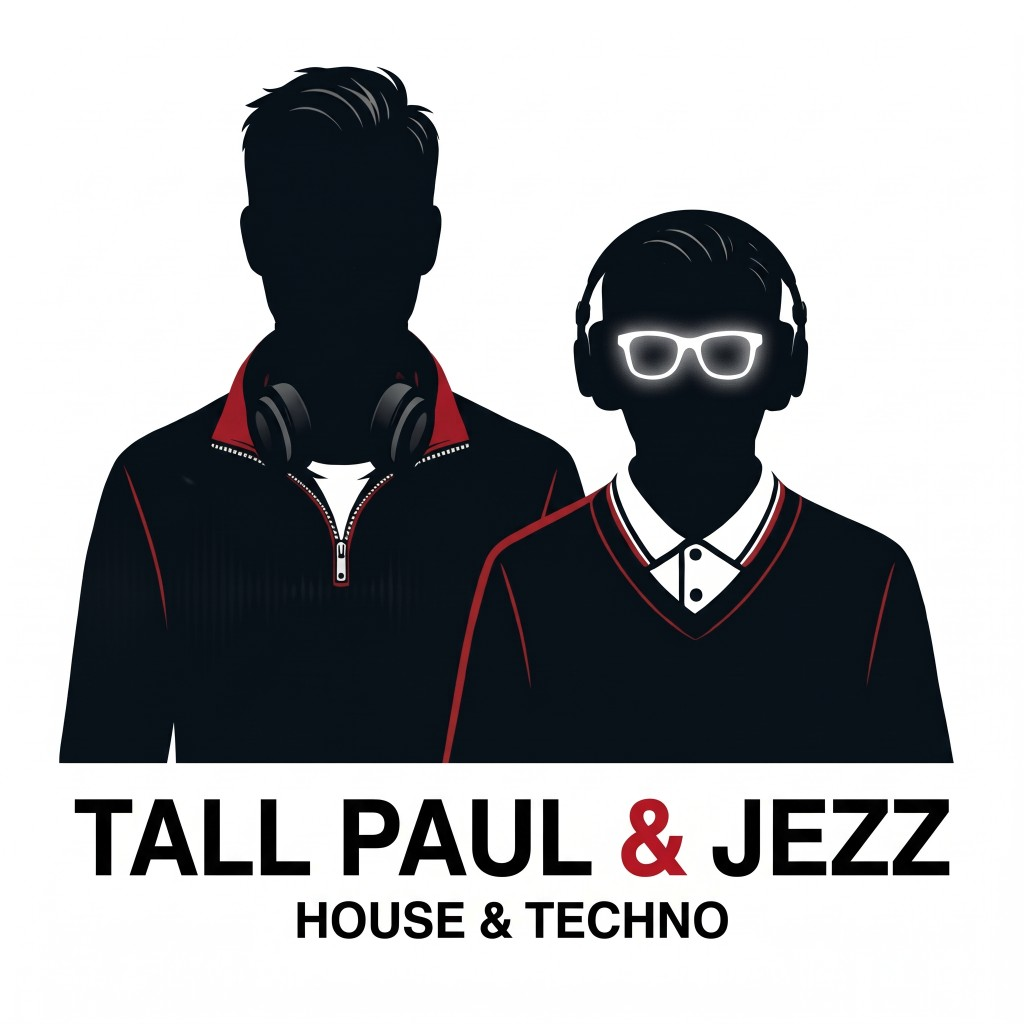
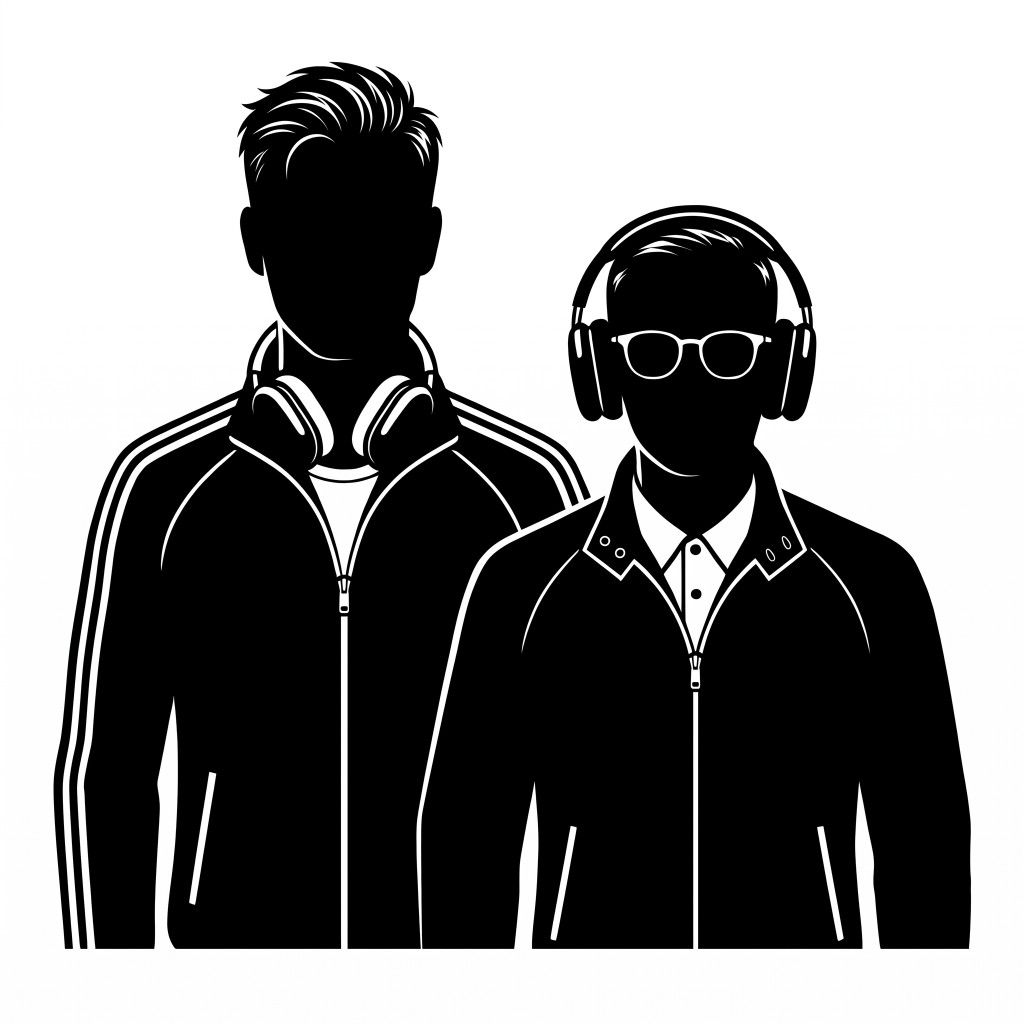
Show the new silhouette as a smaller hero with a larger title.

diff --git a/src/index.css b/src/index.css
@@ -302,7 +302,7 @@ h1, h2, h3 { font-weight: 400; }
 
 .hero-stage {
   position: relative;
-  width: min(1120px, calc(100% - 2.5rem));
+  width: min(640px, calc(100% - 2.5rem));
   margin-inline: auto;
 }
 
@@ -317,9 +317,18 @@ h1, h2, h3 { font-weight: 400; }
 .hero-copy {
   position: absolute;
   z-index: 1;
-  left: 8%;
-  bottom: 8%;
-  max-width: 28%;
+  left: 5%;
+  bottom: 4%;
+  max-width: 52%;
+}
+
+.hero-copy .wordmark {
+  font-size: clamp(4.2rem, 8vw, 6.4rem);
+}
+
+.hero-copy .tour-label {
+  margin-top: 0.25rem;
+  font-size: clamp(2.6rem, 4.5vw, 3.8rem);
 }
 
 .hero-foot { padding-top: 1.15rem; }
@@ -1151,7 +1160,12 @@ input[type="search"] {
 
   .wordmark .and { color: var(--red); }
 
-  .hero-copy .tour-label { color: var(--red); }
+  .hero-copy .wordmark { font-size: clamp(2.7rem, 12vw, 4.4rem); }
+
+  .hero-copy .tour-label {
+    color: var(--red);
+    font-size: clamp(2rem, 8vw, 3rem);
+  }
 
   :root { --header-offset: 22rem; }
 

diff --git a/src/pages/Home.tsx b/src/pages/Home.tsx
@@ -19,7 +19,7 @@ export default function Home({
         <div className="hero-stage">
           <img
             className="hero-art"
-            src="/brand/hero.png"
+            src="/brand/hero.jpg"
             alt="Tall Paul and Jezz, two silhouettes in headphones."
           />
           <div className="hero-copy">
